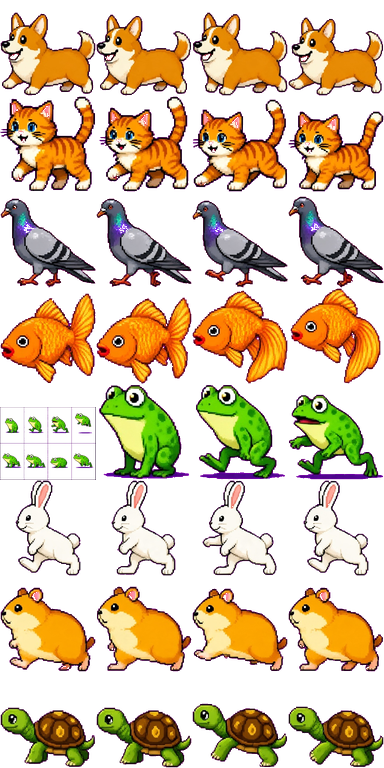
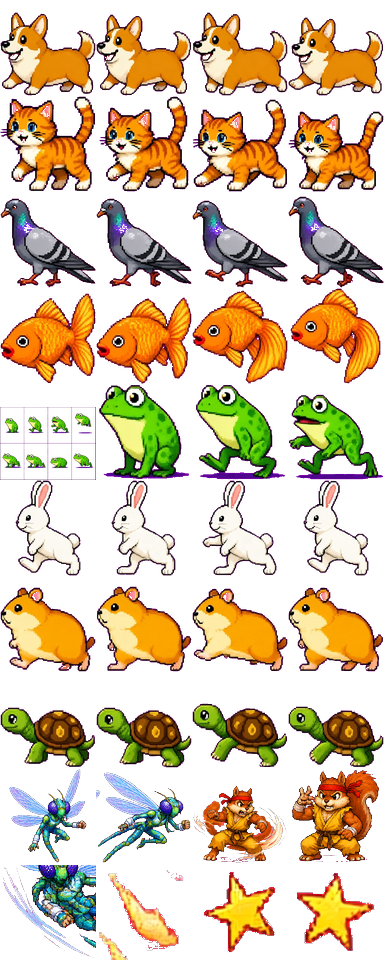
Fauna + torcida: peixe na superficie da agua, maré alta constante em palco com peixe, esquilo/libelula no atlas bichos, torcida no fundo variando pessoas
- bichos.png 384x768 -> 384x960: linhas 8 (esquilo) e 9 (libelula) extraidas de esquilo-libelula/esquiloElibelula.png (fundo rosa removido, 0 magenta) — antes essas especies nasciam invisiveis (rows 8-9 fora da folha)
- stage.js makeFauna: peixe de palco swim nasce na linha d'água (gy-26..gy-48) em vez de gy-120..gy-190 (nascia no ar); tanque (bubbles) inalterado
- mechanics.js tide: palco com 'fish' na fauna liga permaTide — onda presa em 130 e pushX constante (maré alta constante, sem announce repetido); palco tide sem peixe continua intermitente
- stage.js drawTorcida: src volta para 256x200 (o 256x256 dobrava fora da folha 1280x200 e achatava) e cada fileira varia a pessoa tile a tile (col = (row+tile)%5) nos 4 palcos com torcida
- validate_sprites.cjs: bichos esperado 10x4=40 celulas + check de 10 linhas com sprite; torcida corrigido para 5 colunas x 256x200 (o check antigo lia 5 fileiras numa folha de 200px)
- tools/fauna_torcida_test.cjs: 19 checks; validate_sprites 21/21; jess_test 28/28; combat_regressions PASS; bump v42-faunafix/v38-faunafix

diff --git a/index.html b/index.html
@@ -22,9 +22,9 @@
     })().catch((error) => console.warn('Cache cleanup failed:', error));
   </script>
   <link rel="icon" type="image/png" href="assets/share/favicon.png" />
-  <link rel="stylesheet" href="css/style.css?v=v41-jessfix" />
-  <link rel="stylesheet" href="css/account.css?v=v41-jessfix" />
-  <link rel="stylesheet" href="css/mobile.css?v=v41-jessfix" />
+  <link rel="stylesheet" href="css/style.css?v=v42-faunafix" />
+  <link rel="stylesheet" href="css/account.css?v=v42-faunafix" />
+  <link rel="stylesheet" href="css/mobile.css?v=v42-faunafix" />
 </head>
 <body>
   <div id="loader" role="status" aria-live="polite">
@@ -75,13 +75,13 @@
 
     <section class="screen" id="scr-menu" data-screen="menu">
       <div class="menu-bg"></div>
-      <img class="menu-skin" id="skin-natal" alt="" src="assets/ui/skin-natal.png?v=v41-jessfix" />
-      <img class="menu-skin" id="skin-halloween" alt="" src="assets/ui/skin-halloween.png?v=v41-jessfix" />
-      <img class="menu-skin" id="skin-carnaval" alt="" src="assets/ui/skin-carnaval.png?v=v41-jessfix" />
-      <img class="menu-skin" id="skin-pascoa" alt="" src="assets/ui/skin-pascoa.png?v=v41-jessfix" />
-      <img class="menu-skin" id="skin-junina" alt="" src="assets/ui/skin-junina.png?v=v41-jessfix" />
-      <img class="menu-skin" id="skin-criancas" alt="" src="assets/ui/skin-criancas.png?v=v41-jessfix" />
-      <img class="menu-skin" id="skin-anonovo" alt="" src="assets/ui/skin-anonovo.png?v=v41-jessfix" />
+      <img class="menu-skin" id="skin-natal" alt="" src="assets/ui/skin-natal.png?v=v42-faunafix" />
+      <img class="menu-skin" id="skin-halloween" alt="" src="assets/ui/skin-halloween.png?v=v42-faunafix" />
+      <img class="menu-skin" id="skin-carnaval" alt="" src="assets/ui/skin-carnaval.png?v=v42-faunafix" />
+      <img class="menu-skin" id="skin-pascoa" alt="" src="assets/ui/skin-pascoa.png?v=v42-faunafix" />
+      <img class="menu-skin" id="skin-junina" alt="" src="assets/ui/skin-junina.png?v=v42-faunafix" />
+      <img class="menu-skin" id="skin-criancas" alt="" src="assets/ui/skin-criancas.png?v=v42-faunafix" />
+      <img class="menu-skin" id="skin-anonovo" alt="" src="assets/ui/skin-anonovo.png?v=v42-faunafix" />
       <div class="menu-fx" id="fx-natal"></div>
       <div class="menu-fx" id="fx-halloween"></div>
       <img class="logo small" src="assets/ui/logo.png" alt="DS Fighters" />
@@ -411,7 +411,7 @@
     </div>
   </div>
 
-  <script src="assets/sprites/layout.js?v=v41-jessfix"></script>
+  <script src="assets/sprites/layout.js?v=v42-faunafix"></script>
   <script>
     /* Blindagem contra layout.js velho em cache: os arquivos de dados
        (fighters-v7..v11) escrevem em SPRITE_LAYOUT.files / .perFighter,
@@ -435,76 +435,76 @@
       }
     })();
   </script>
-  <script src="assets/stages/sheets.js?v=v41-jessfix"></script>
-  <script src="assets/maps/anim.js?v=v41-jessfix"></script>
-  <script src="js/data/achievements.js?v=v41-jessfix"></script>
-  <script src="js/core/profile.js?v=v41-jessfix"></script>
-  <script src="js/config/firebase-config.js?v=v41-jessfix"></script>
-  <script src="js/core/cloud.js?v=v41-jessfix"></script>
-  <script src="js/config/supabase-config.js?v=v41-jessfix"></script>
+  <script src="assets/stages/sheets.js?v=v42-faunafix"></script>
+  <script src="assets/maps/anim.js?v=v42-faunafix"></script>
+  <script src="js/data/achievements.js?v=v42-faunafix"></script>
+  <script src="js/core/profile.js?v=v42-faunafix"></script>
+  <script src="js/config/firebase-config.js?v=v42-faunafix"></script>
+  <script src="js/core/cloud.js?v=v42-faunafix"></script>
+  <script src="js/config/supabase-config.js?v=v42-faunafix"></script>
   <script src="js/vendor/supabase-2.118.0.js"></script>
-  <script src="js/core/supabase-cloud.js?v=v41-jessfix"></script>
-  <script src="js/data/fighters.js?v=v41-jessfix"></script>
-  <script src="js/data/fighters-v10.js?v=v41-jessfix"></script>
-  <script src="js/data/fighters-v11.js?v=v41-jessfix"></script>
-  <script src="js/data/powers.js?v=v41-jessfix"></script>
-  <script src="js/data/powers-turbo.js?v=v41-jessfix"></script>
-  <script src="js/data/powers-v4.js?v=v41-jessfix"></script>
-  <script src="js/data/powers-v5.js?v=v41-jessfix"></script>
-  <script src="js/data/powers-v6.js?v=v41-jessfix"></script>
-  <script src="js/data/powers-balance-v6.js?v=v41-jessfix"></script>
-  <script src="js/data/powers-v7.js?v=v41-jessfix"></script>
-  <script src="js/data/powers-v8.js?v=v41-jessfix"></script>
-  <script src="js/data/powers-v9.js?v=v41-jessfix"></script>
-  <script src="js/data/powers-v10.js?v=v41-jessfix"></script>
-  <script src="js/data/powers-v11.js?v=v41-jessfix"></script>
-    <script src="js/data/fighters-v12.js?v=v41-jessfix"></script>
-    <script src="js/data/fighters-v13.js?v=v41-jessfix"></script>
-    <script src="js/data/fighters-v14.js?v=v41-jessfix"></script>
-    <script src="js/data/fighters-v15.js?v=v41-jessfix"></script>
-    <script src="js/data/fighters-v16.js?v=v41-jessfix"></script>
-    <script src="js/data/fighters-v17.js?v=v41-jessfix"></script>
-  <script src="js/data/fighters-v18.js?v=v41-jessfix"></script>
-  <script src="js/data/fighters-v19.js?v=v41-jessfix"></script>
-  <script src="js/data/fighters-v20.js?v=v41-jessfix"></script>
-  <script src="js/data/powers-balance-v7.js?v=v41-jessfix"></script>
-  <script src="js/data/powers-balance-v8.js?v=v41-jessfix"></script>
-  <script src="js/data/powers-balance-v9.js?v=v41-jessfix"></script>
-  <script src="js/data/powers-balance-v10.js?v=v41-jessfix"></script>
-  <script src="js/data/powers-balance-v11.js?v=v41-jessfix"></script>
-  <script src="js/data/powers-balance-v12.js?v=v41-jessfix"></script>
-  <script src="js/data/powers-balance-v13.js?v=v41-jessfix"></script>
-  <script src="js/data/fighters-pack.js?v=v41-jessfix"></script>
-  <script src="js/data/fighters-henrico.js?v=v41-jessfix"></script>
-  <script src="js/data/fighters-jess.js?v=v41-jessfix"></script>
-  <script src="js/data/pets.js?v=v41-jessfix"></script>
-  <script src="js/data/stages.js?v=v41-jessfix"></script>
-  <script src="js/data/stages-v21.js?v=v41-jessfix"></script>
-  <script src="js/data/events.js?v=v41-jessfix"></script>
-  <script src="js/data/stages-events.js?v=v41-jessfix"></script>
-  <script src="js/data/stages-brasil.js?v=v41-jessfix"></script>
-  <script src="js/engine/sprites.js?v=v41-jessfix"></script>
-  <script src="js/engine/fx.js?v=v41-jessfix"></script>
-  <script src="js/data/voice-book.js?v=v41-jessfix"></script>
-  <script src="js/engine/audio.js?v=v41-jessfix"></script>
-  <script src="js/engine/input.js?v=v41-jessfix"></script>
-  <script src="js/ui/viewport.js?v=v41-jessfix"></script>
-  <script src="js/engine/projectile.js?v=v41-jessfix"></script>
-  <script src="js/engine/fighter.js?v=v41-jessfix"></script>
-  <script src="js/engine/vfx.js?v=v41-jessfix"></script>
-  <script src="js/engine/weather.js?v=v41-jessfix"></script>
-  <script src="js/engine/mechanics.js?v=v41-jessfix"></script>
-  <script src="js/engine/stage.js?v=v41-jessfix"></script>
-  <script src="js/engine/ai.js?v=v41-jessfix"></script>
-  <script src="js/engine/game.js?v=v41-jessfix"></script>
+  <script src="js/core/supabase-cloud.js?v=v42-faunafix"></script>
+  <script src="js/data/fighters.js?v=v42-faunafix"></script>
+  <script src="js/data/fighters-v10.js?v=v42-faunafix"></script>
+  <script src="js/data/fighters-v11.js?v=v42-faunafix"></script>
+  <script src="js/data/powers.js?v=v42-faunafix"></script>
+  <script src="js/data/powers-turbo.js?v=v42-faunafix"></script>
+  <script src="js/data/powers-v4.js?v=v42-faunafix"></script>
+  <script src="js/data/powers-v5.js?v=v42-faunafix"></script>
+  <script src="js/data/powers-v6.js?v=v42-faunafix"></script>
+  <script src="js/data/powers-balance-v6.js?v=v42-faunafix"></script>
+  <script src="js/data/powers-v7.js?v=v42-faunafix"></script>
+  <script src="js/data/powers-v8.js?v=v42-faunafix"></script>
+  <script src="js/data/powers-v9.js?v=v42-faunafix"></script>
+  <script src="js/data/powers-v10.js?v=v42-faunafix"></script>
+  <script src="js/data/powers-v11.js?v=v42-faunafix"></script>
+    <script src="js/data/fighters-v12.js?v=v42-faunafix"></script>
+    <script src="js/data/fighters-v13.js?v=v42-faunafix"></script>
+    <script src="js/data/fighters-v14.js?v=v42-faunafix"></script>
+    <script src="js/data/fighters-v15.js?v=v42-faunafix"></script>
+    <script src="js/data/fighters-v16.js?v=v42-faunafix"></script>
+    <script src="js/data/fighters-v17.js?v=v42-faunafix"></script>
+  <script src="js/data/fighters-v18.js?v=v42-faunafix"></script>
+  <script src="js/data/fighters-v19.js?v=v42-faunafix"></script>
+  <script src="js/data/fighters-v20.js?v=v42-faunafix"></script>
+  <script src="js/data/powers-balance-v7.js?v=v42-faunafix"></script>
+  <script src="js/data/powers-balance-v8.js?v=v42-faunafix"></script>
+  <script src="js/data/powers-balance-v9.js?v=v42-faunafix"></script>
+  <script src="js/data/powers-balance-v10.js?v=v42-faunafix"></script>
+  <script src="js/data/powers-balance-v11.js?v=v42-faunafix"></script>
+  <script src="js/data/powers-balance-v12.js?v=v42-faunafix"></script>
+  <script src="js/data/powers-balance-v13.js?v=v42-faunafix"></script>
+  <script src="js/data/fighters-pack.js?v=v42-faunafix"></script>
+  <script src="js/data/fighters-henrico.js?v=v42-faunafix"></script>
+  <script src="js/data/fighters-jess.js?v=v42-faunafix"></script>
+  <script src="js/data/pets.js?v=v42-faunafix"></script>
+  <script src="js/data/stages.js?v=v42-faunafix"></script>
+  <script src="js/data/stages-v21.js?v=v42-faunafix"></script>
+  <script src="js/data/events.js?v=v42-faunafix"></script>
+  <script src="js/data/stages-events.js?v=v42-faunafix"></script>
+  <script src="js/data/stages-brasil.js?v=v42-faunafix"></script>
+  <script src="js/engine/sprites.js?v=v42-faunafix"></script>
+  <script src="js/engine/fx.js?v=v42-faunafix"></script>
+  <script src="js/data/voice-book.js?v=v42-faunafix"></script>
+  <script src="js/engine/audio.js?v=v42-faunafix"></script>
+  <script src="js/engine/input.js?v=v42-faunafix"></script>
+  <script src="js/ui/viewport.js?v=v42-faunafix"></script>
+  <script src="js/engine/projectile.js?v=v42-faunafix"></script>
+  <script src="js/engine/fighter.js?v=v42-faunafix"></script>
+  <script src="js/engine/vfx.js?v=v42-faunafix"></script>
+  <script src="js/engine/weather.js?v=v42-faunafix"></script>
+  <script src="js/engine/mechanics.js?v=v42-faunafix"></script>
+  <script src="js/engine/stage.js?v=v42-faunafix"></script>
+  <script src="js/engine/ai.js?v=v42-faunafix"></script>
+  <script src="js/engine/game.js?v=v42-faunafix"></script>
   <script src="js/vendor/peerjs.min.js"></script>
-  <script src="js/net/room-core.js?v=v41-jessfix"></script>
-  <script src="js/net/online.js?v=v41-jessfix"></script>
-  <script src="js/ui/hud.js?v=v41-jessfix"></script>
-  <script src="js/data/roster-portraits.js?v=v41-jessfix"></script>
-  <script src="js/ui/ui.js?v=v41-jessfix"></script>
-  <script src="js/ui/account.js?v=v41-jessfix"></script>
-  <script src="js/main.js?v=v41-jessfix"></script>
-  <script src="js/net/tournament.js?v=v41-jessfix"></script>
+  <script src="js/net/room-core.js?v=v42-faunafix"></script>
+  <script src="js/net/online.js?v=v42-faunafix"></script>
+  <script src="js/ui/hud.js?v=v42-faunafix"></script>
+  <script src="js/data/roster-portraits.js?v=v42-faunafix"></script>
+  <script src="js/ui/ui.js?v=v42-faunafix"></script>
+  <script src="js/ui/account.js?v=v42-faunafix"></script>
+  <script src="js/main.js?v=v42-faunafix"></script>
+  <script src="js/net/tournament.js?v=v42-faunafix"></script>
 </body>
 </html>

diff --git a/js/engine/stage.js b/js/engine/stage.js
@@ -231,7 +231,7 @@ class StageRenderer {
         const inTank = kind === 'fish' && (this.def.bubbles || this.def.id === '03-underwater-lab' || this.def.id === 'abismo-das-baleias');
         const surface = kind === 'fish' && this.def.swim && !inTank;
         const y = kind === 'fish'
-          ? (inTank ? 150 + Math.random() * 200 : surface ? gy - 120 - Math.random() * 70 : gy - 16 - Math.random() * 16)
+          ? (inTank ? 150 + Math.random() * 200 : surface ? gy - 26 - Math.random() * 22 : gy - 16 - Math.random() * 16)
           : (kind === 'bird' || kind === 'bat' ? 48 + Math.random() * 120 : 140 + Math.random() * 180);
         this.fauna.push({
           kind,
@@ -403,7 +403,7 @@ class StageRenderer {
     this.crowd = null;
     if (!this.def.torcida) return;
     this.crowdSheet = new Image();
-    this.crowdSheet.src = 'assets/fauna/torcida.png?v=v41-jessfix';
+    this.crowdSheet.src = 'assets/fauna/torcida.png?v=v42-faunafix';
     this.crowdHype = 0;
     this.crowd = [
       { row: 0, y: this.H * 0.30, scale: 0.55, speed: 0.9 },
@@ -419,8 +419,12 @@ class StageRenderer {
       const jump = hype ? Math.abs(Math.sin(this.t * 0.35 * c.speed)) * 7 * c.scale : Math.sin(this.t * 0.03 + c.row) * 1.5;
       const w = 256 * c.scale * 2.2;
       const h = 200 * c.scale * 2.2;
-      for (let x = -w / 2; x < this.W + w; x += w * 0.98) {
-        ctx.drawImage(this.crowdSheet, c.row * 256, 0, 256, 256, x, c.y - h + jump, w, h);
+      let tile = 0;
+      for (let x = -w / 2; x < this.W + w; x += w * 0.98, tile++) {
+        /* a folha tem 5 pessoas (256x200 cada) em 1 fileira: cada fileira da arquibancada
+           varia a pessoa tile a tile, começando numa coluna diferente por fileira */
+        const col = (c.row + tile) % 5;
+        ctx.drawImage(this.crowdSheet, col * 256, 0, 256, 200, x, c.y - h + jump, w, h);
       }
     }
     ctx.restore();

diff --git a/js/engine/mechanics.js b/js/engine/mechanics.js
@@ -221,15 +221,26 @@ const MECHS = {
     },
   },
   tide: {
-    init() { this.wave = 0; this.dir = 1; },
+    init(g) {
+      this.wave = 0; this.dir = 1;
+      /* palco COM peixe = maré alta CONSTANTE (sempre alta, sem religar) */
+      const fauna = g && g.stage && g.stage.def && g.stage.def.fauna;
+      this.permaTide = !!(fauna && fauna.indexOf('fish') >= 0);
+      if (this.permaTide) this.wave = 130;
+    },
     every: 480,
     fire(g) {
       this.dir = (g.rnd ? g.rnd() : Math.random()) < 0.5 ? -1 : 1;
       this.wave = 130;
-      g.announce('MARÉ ALTA!', '#7f52ff', this.dir > 0 ? 'A água empurra para a direita →' : '← A água empurra para a esquerda');
-      g.audio.play('water');
+      if (!this.permaTide) {
+        g.announce('MARÉ ALTA!', '#7f52ff', this.dir > 0 ? 'A água empurra para a direita →' : '← A água empurra para a esquerda');
+        g.audio.play('water');
+      }
     },
-    tick(g) { if (this.wave > 0) { this.wave--; g.pushX = this.dir * 1.25; } },
+    tick(g) {
+      if (this.permaTide) { this.wave = 130; g.pushX = this.dir * 1.25; return; }
+      if (this.wave > 0) { this.wave--; g.pushX = this.dir * 1.25; }
+    },
     draw(ctx, g, t) {
       if (this.wave <= 0) return;
       ctx.save();

diff --git a/js/engine/sprites.js b/js/engine/sprites.js
@@ -41,7 +41,7 @@ const SpriteGen = {
     const src = (SPRITE_LAYOUT.files || {})[id] || 'assets/sprites/' + id + '.png';
     // v=... serve pra invalidar cache: SEMPRE bump quando o PNG mudar.
     // v18-balance: rebalanceamento geral + cromo buff
-    return src + '?v=v41-jessfix';
+    return src + '?v=v42-faunafix';
   },
   faceUrl(id) {
     return `assets/ui/face-${id}.png?v=spritefix-4x15b`;

diff --git a/js/engine/fx.js b/js/engine/fx.js
@@ -38,7 +38,7 @@ const ART_SHEETS = {
 const Art = {
   images: {},
   url(src) {
-    return src + '?v=v37-firefly';
+    return src + '?v=v38-faunafix';
   },
   load() {
     Object.entries(ART_SHEETS).forEach(([key, s]) => {
